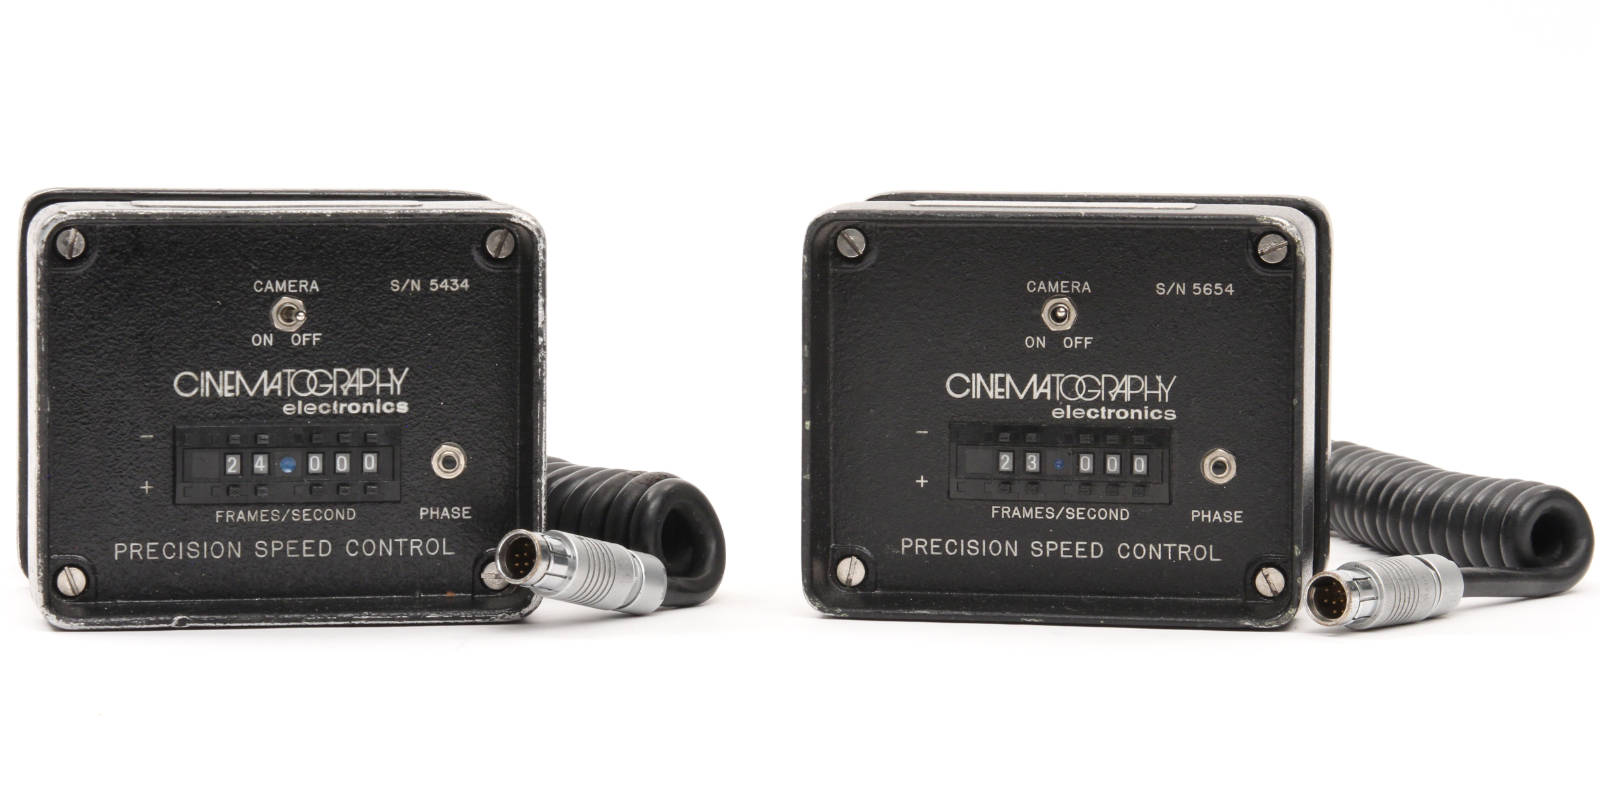
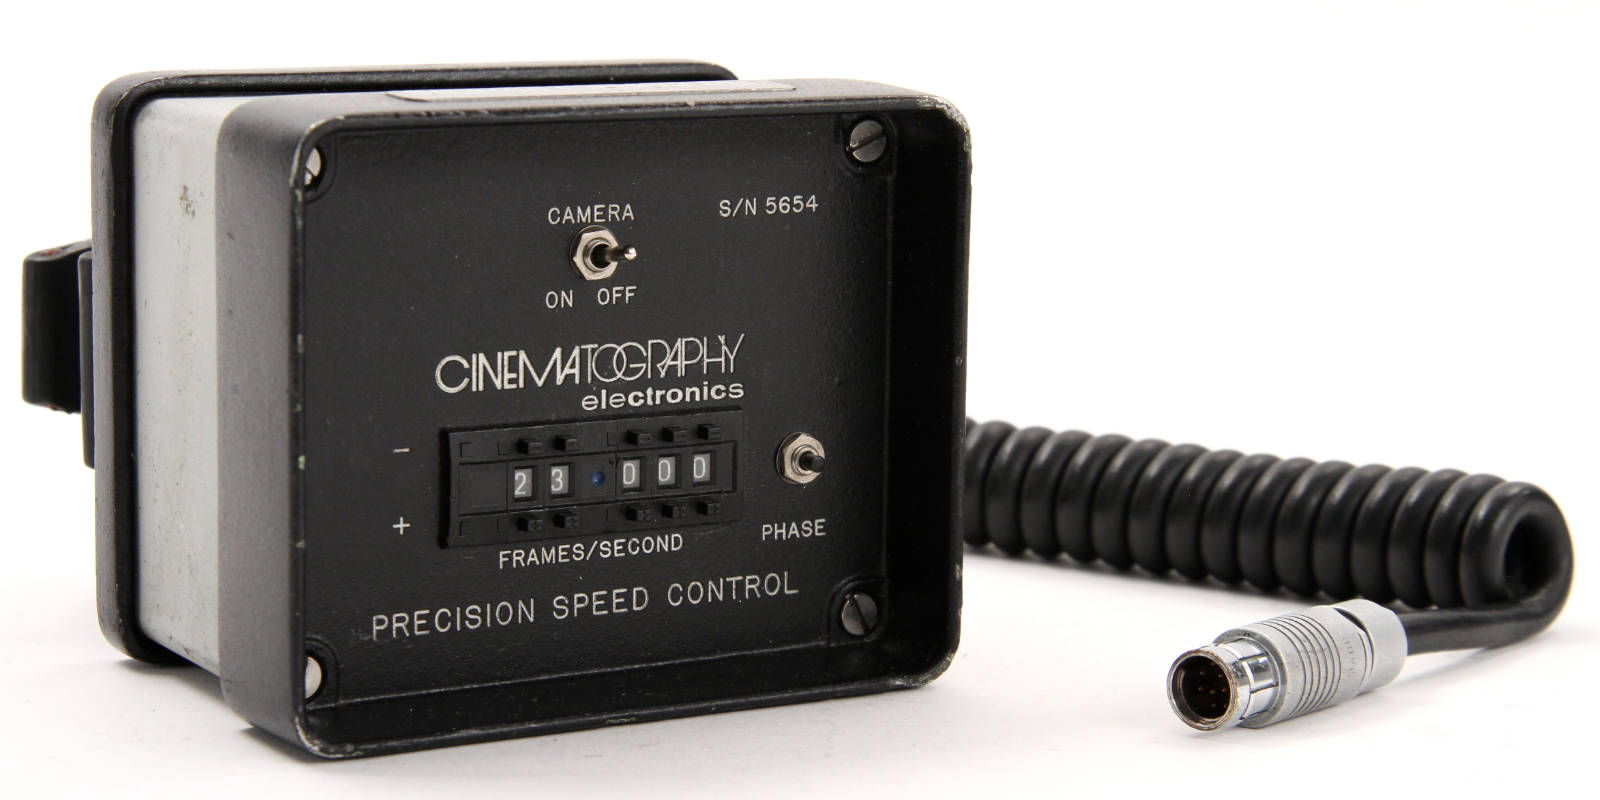
update used

diff --git a/usedaks.html b/usedaks.html
@@ -504,6 +504,7 @@
 		<button class="used-gallery-main" type="button" aria-label="View larger photo of CE PSC-1 Precision Speed controls"> <img src="img/used/cepsc.jpg" alt="CE PSC-1 Precision Speed control"> </button> 
 		<div class="used-thumbnails">
 			<button class="used-thumbnail" type="button" aria-label="View CE PSC-1 Precision Speed control photo 1"> <img src="img/used/cepsc.jpg" alt=""> </button> 
+			<button class="used-thumbnail" type="button" aria-label="View CE PSC-1 Precision Speed control photo 2"> <img src="img/used/cepsc-back.jpg" alt=""> </button> 
 		</div> 
 		</div>
 			<ul>
@@ -664,8 +665,8 @@
 		</div>
 			<ul>
 				<li>(4x) DIONIC HCX Gold Mount batteries</li>
-				<li>Batteries capacity tested</li>
 				<li>TM4 4-position Gold Mount charger</li>
+				<li>Batteries capacity tested</li>
 			</ul>
 			<a class="used-inquire" href="mailto:info@strattoncamera.com?subject=Used%20equipment%20inquiry%20Anton%20Bauer%20DionicHCX"> Inquire about this item </a> 
 		</article>
@@ -687,8 +688,8 @@
 		</div>
 			<ul>
 				<li>(4x) Batteries</li>
-				<li>Batteries capacity tested</li>
 				<li>LP4 4-position Gold Mount charger</li>
+				<li>Batteries capacity tested</li>
 			</ul>
 			<a class="used-inquire" href="mailto:info@strattoncamera.com?subject=Used%20equipment%20inquiry%20Anton%20Bauer%20XT150"> Inquire about this item </a> 
 		</article>

diff --git a/usedoptics.html b/usedoptics.html
@@ -154,7 +154,7 @@
 				Angénieux 9.5-57 Zoom Lens
 			</h2>
 			<div class="used-price">
-				$995 
+				$1,100 
 			</div>
 		</div>
 		<div class="used-gallery">
